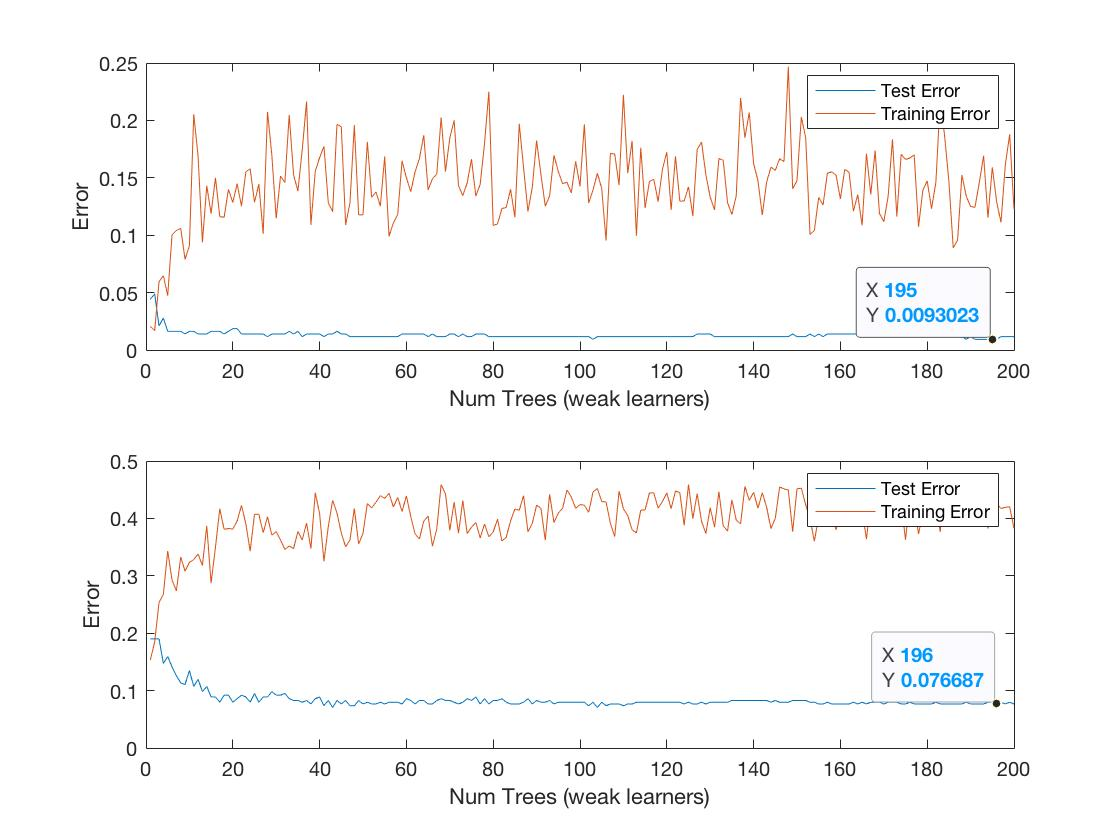
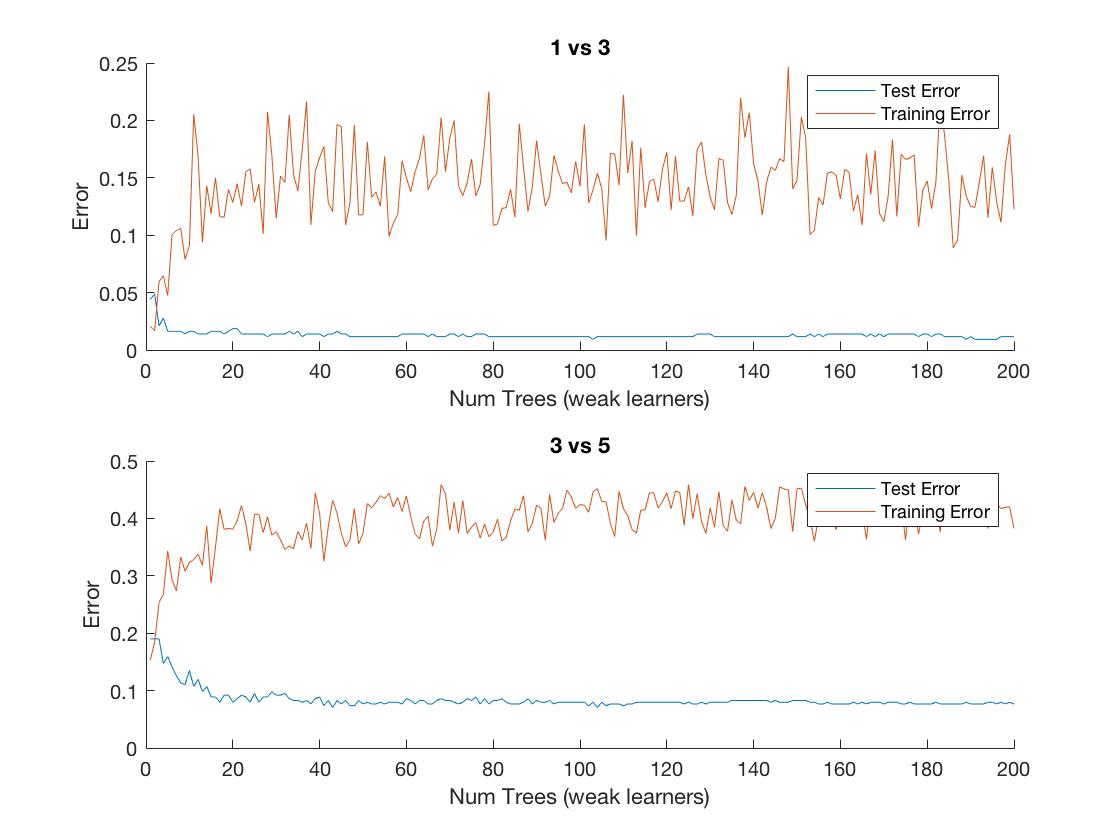
problem 2

diff --git a/hw4/HW4.tex b/hw4/HW4.tex
@@ -30,7 +30,7 @@
 	\item (a) \& (b)
 
 \begin{figure}[H]
-\includegraphics[scale=0.4]{image.jpg} 
+\includegraphics[scale=0.4]{image.jpg} \\\\
 \end{figure}
 
 	\item (c) 
@@ -58,9 +58,9 @@
 3 vs 5                    & \multicolumn{2}{l|}{0.0371}             & 0.0767              \\ \hline
 \end{tabular}
 \end{table}
-	\item (d) By definition the differences between all three models is that decision trees model uses only a single tree to learn the data, bagging decision trees utilizes the concept of bootstrap aggregating (combining the predictions of many hypotheses to reduce variance), and random forest utilizes split feature randomization (the ID3 tree building algorithm random chooses a set number of features to select a feature to use when splitting) along with bootstrap aggregating. The results show that 200 bagged decision trees tend to perform better than a single decision tree in classification of digits in both the 1v3 and 3v5 data sets. Because each tree is only looking at some subset of the data, they all will tend to choose different features to differentiate by at each decision point, and thus each will be looking for different aspects of the data points at each step of the decision process when determining which digit it is most likely to be. Therefore, getting a majority vote among the trees is only likely if many different features of a number are like features of a three, not just a few particular ones.
-	\\\\As for the differences between 1v3 and 3v5, both plots show very similar behavior except for the fact that 3v5 generally seemed more difficult to learn for all learning models due to how a 3 and a 5 have less distinguishing features between themselves. As a result all the different errors were higher for 3v5 than those of 1v3 all learning models.
-	\\\\As we observed from our results, the effects of increasing the number of bags boiled down to a very steep decrease in OOB error before ~10 bags, which then it started to steadily decrease into a plateau ~30 bags. This could be attributed to the fact that OOB error should decease as the number of bags go up as we now probably have a fair sample of the data spread among the trees. For random forest, there is slightly more stochastic decision making on the algorithm's part (split feature randomization), so it takes longer for the error to settle.
+	\item (d) The results show that 200 bagged decision trees tend to perform better than a single decision tree in classification of digits in both the 1v3 and 3v5 data sets. Because each tree is only looking at some subset of the data, they all will tend to choose different features to differentiate by at each decision point, and thus each will be looking for different aspects of the data points at each step of the decision process when determining which digit it is most likely to be. Therefore, getting a majority vote among the trees is only likely if many different features of a number are like features of a three, not just a few particular ones. Random forests showed similar results to the bagged tree model as the algorithms for both are almost the same except for the use of split feature randomization, which in effect reduces the correlation between the bagged trees and therefore the out-of-sample error as the overfitting, which often results from high correlation in the normal bagged trees model, is addressed. Hence generally, it is expected for random forests to perform better.
+	\\\\As for the differences between 1v3 and 3v5, both plots show very similar behavior except for the fact that 3v5 generally seemed more difficult to learn for all learning models due to how a 3 and a 5 have less distinguishing features between themselves. As a result all the different errors were higher for 3v5 than those of 1v3 all learning models. It's interesting to note that for 3v5 of random forest, the OOB error is slightly higher than that of bagged trees while its test error is lower than that of bagged trees in comparison to the results of 1v3 where both the OOB error and test error of random forest is larger than those of 200 bagged trees. 
+	\\\\As we observed from our results, the effects of increasing the number of bags boiled down to a very steep decrease in OOB error before about 10 bags, which then it started to steadily decrease into a plateau around 30 bags. This could be attributed to the fact that OOB error should decease as the number of bags go up as we now probably have a fair sample of the data spread among the trees. For random forest, there is slightly more stochastic decision making on the algorithm's part (split feature randomization), so it takes longer for the error to settle. As a side note, introducing multiple bagged trees overall does reduce the variance, and by extension, the error rates since $E_out = bias + var$.
 
 \end{description}
 \section*{Problem 2}
@@ -69,7 +69,19 @@
 \begin{figure}[H]
 \includegraphics[scale=0.4]{image2.jpg} 
 \end{figure}
-	\item (c) The differences between 1v3 and 3v5 for the adaboost model is that 1v3 resulted in lower test and training error by a scale of ~0.5.
+\item (c) The differences between 1v3 and 3v5 for the adaboost model is that 1v3 resulted in lower test and training error by a scale of about 0.5.  This may also tie back to how 1v3 is considered easier to learn than 3v5. In the case of the adaboost algorithm, the training error for 3v5 appears to be on a steeper incline and this may be due to the fact that since 3v5 was harder to learn, and therefore the algorithm had to give more weight to inputs that are difficult to predict correctly resulting in what we see in the plots. 
+\\\\Tying into this we can see that as the number of weak learners increases, the training error for 1v3 appears to remain stable if not very slightly decreasing for later learners as it oscillates. This could probably be attributed to how later learners in general have lower error as the upper bound for error decreases by a factor of 2 at each iteration because of $Z_t$ normalization. On the other hand for 3v5, as the number of weak learner increases, the training error almost appears to increase even for later learners. Going back to how 3v5 is a more difficult problem, it is possible that adaboost had to account for noisier training data which in turn may have resulted in the increased weights of "problem" points and then the mislabeling of good samples, although the use of importance ($\alpha$) may have helped to alleviate this issue.
+As for the generalization of adaboost as the number of weak learners increases, we can observe that it is quite good since the test error very rapidly goes down and appears to almost converge (plateau) before 20 weak learners. This could be due to the nature of using ensemble learning and aggregating the results of more and more weak learners, which naturally perform poorly by themselves, but much better when combined as they "boost" the accuracy of the learning model.
+
+\end{description}
+
+\section*{Problem 3}
+\begin{description}
+	\item (a) \& (b)
+\begin{figure}[H]
+\includegraphics[scale=0.4]{image3.jpg} 
+\end{figure}
+	\item (c) 
 
 \end{description}
 

diff --git a/hw4/OneThreeFive.m b/hw4/OneThreeFive.m
@@ -70,7 +70,7 @@ X_te = subsample(:,2:257);
 y_te = subsample(:,1);
 
 subplot(2, 1, 1);
-
+hold on
 title('1 vs 3');
 
 ct = fitctree(X_tr, y_tr, 'CrossVal', 'on');
@@ -80,8 +80,9 @@ fprintf('The test error of decision trees is %.4f\n', sum(predict(t,X_te) ~= y_t
 [train_err, test_err] = AdaBoost(X_tr, y_tr, X_te, y_te, 200);
 fprintf('The training error of 200 adaboost trees is %.4f\n', train_err);
 fprintf('The test error of 200 adaboost trees is %.4f\n', test_err);
-
+hold off
 subplot(2, 1, 2);
+hold on
 title('3 vs 5');
 
 fprintf('\n');
@@ -101,3 +102,4 @@ fprintf('The test error of decision trees is %.4f\n', sum(predict(t,X_te) ~= y_t
 [train_err, test_err] = AdaBoost(X_tr, y_tr, X_te, y_te, 200);
 fprintf('The training error of 200 adaboost trees is %.4f\n', train_err);
 fprintf('The test error of 200 adaboost trees is %.4f\n', test_err);
+hold off

diff --git a/hw4/knn.m b/hw4/knn.m
@@ -2,7 +2,7 @@
 
 X = [2 0; 5 2; 6 3; 0 1; 2 3; 4 4];
 y = [1; 1; 1; -1; -1; -1];
-% D = {2, 0, '1' ; 5, 2, '1'; 6, 3, '1'; 0, 1, '-1'; 2, 3, '-1'; 4, 4, '-1'};
+% D = {(2, 0, +1),(5, 2, +1),(6, 3, +1),(0, 1, ?1),(2, 3, ?1),(4, 4, ?1)}
 
 % KNN decision boundary for k = 1
 knn1 = fitcknn(X, y, 'NumNeighbors' , 1);
